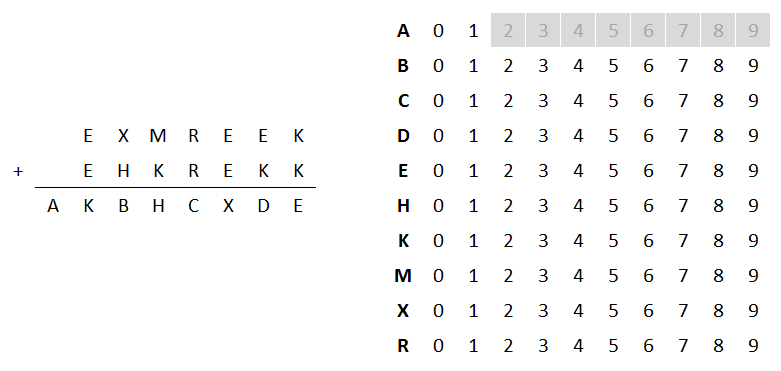
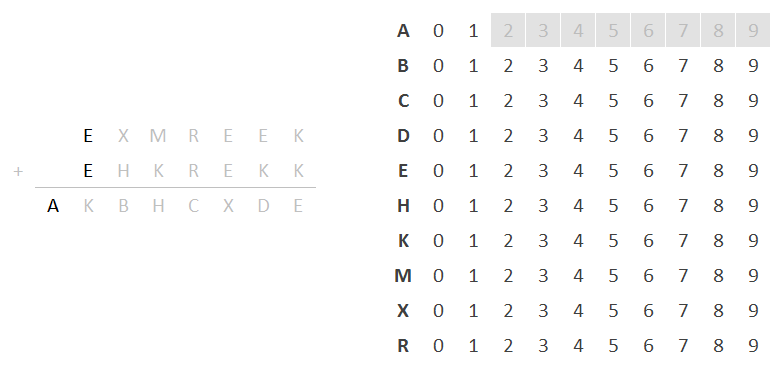
Implementation

diff --git a/2018-06-08/README.md b/2018-06-08/README.md
@@ -74,7 +74,9 @@ E H K M R X A B C D
 
 Since all 10 digits appear in the equation, this means that each distinct symbol's digit is distinct (i.e. E and H can't stand for the same number).
 
-Since 9 + 9 + 1 = 19, A must be either 0 or 1.
+Not shown in the original problem are each column's carry digit, which are each either 0 or 1.
+
+A a special case in that it is effectively the carry digit for E + E. S. Therefore, A must be either 0 or 1.
 
 ![Message](step2.PNG)
 
